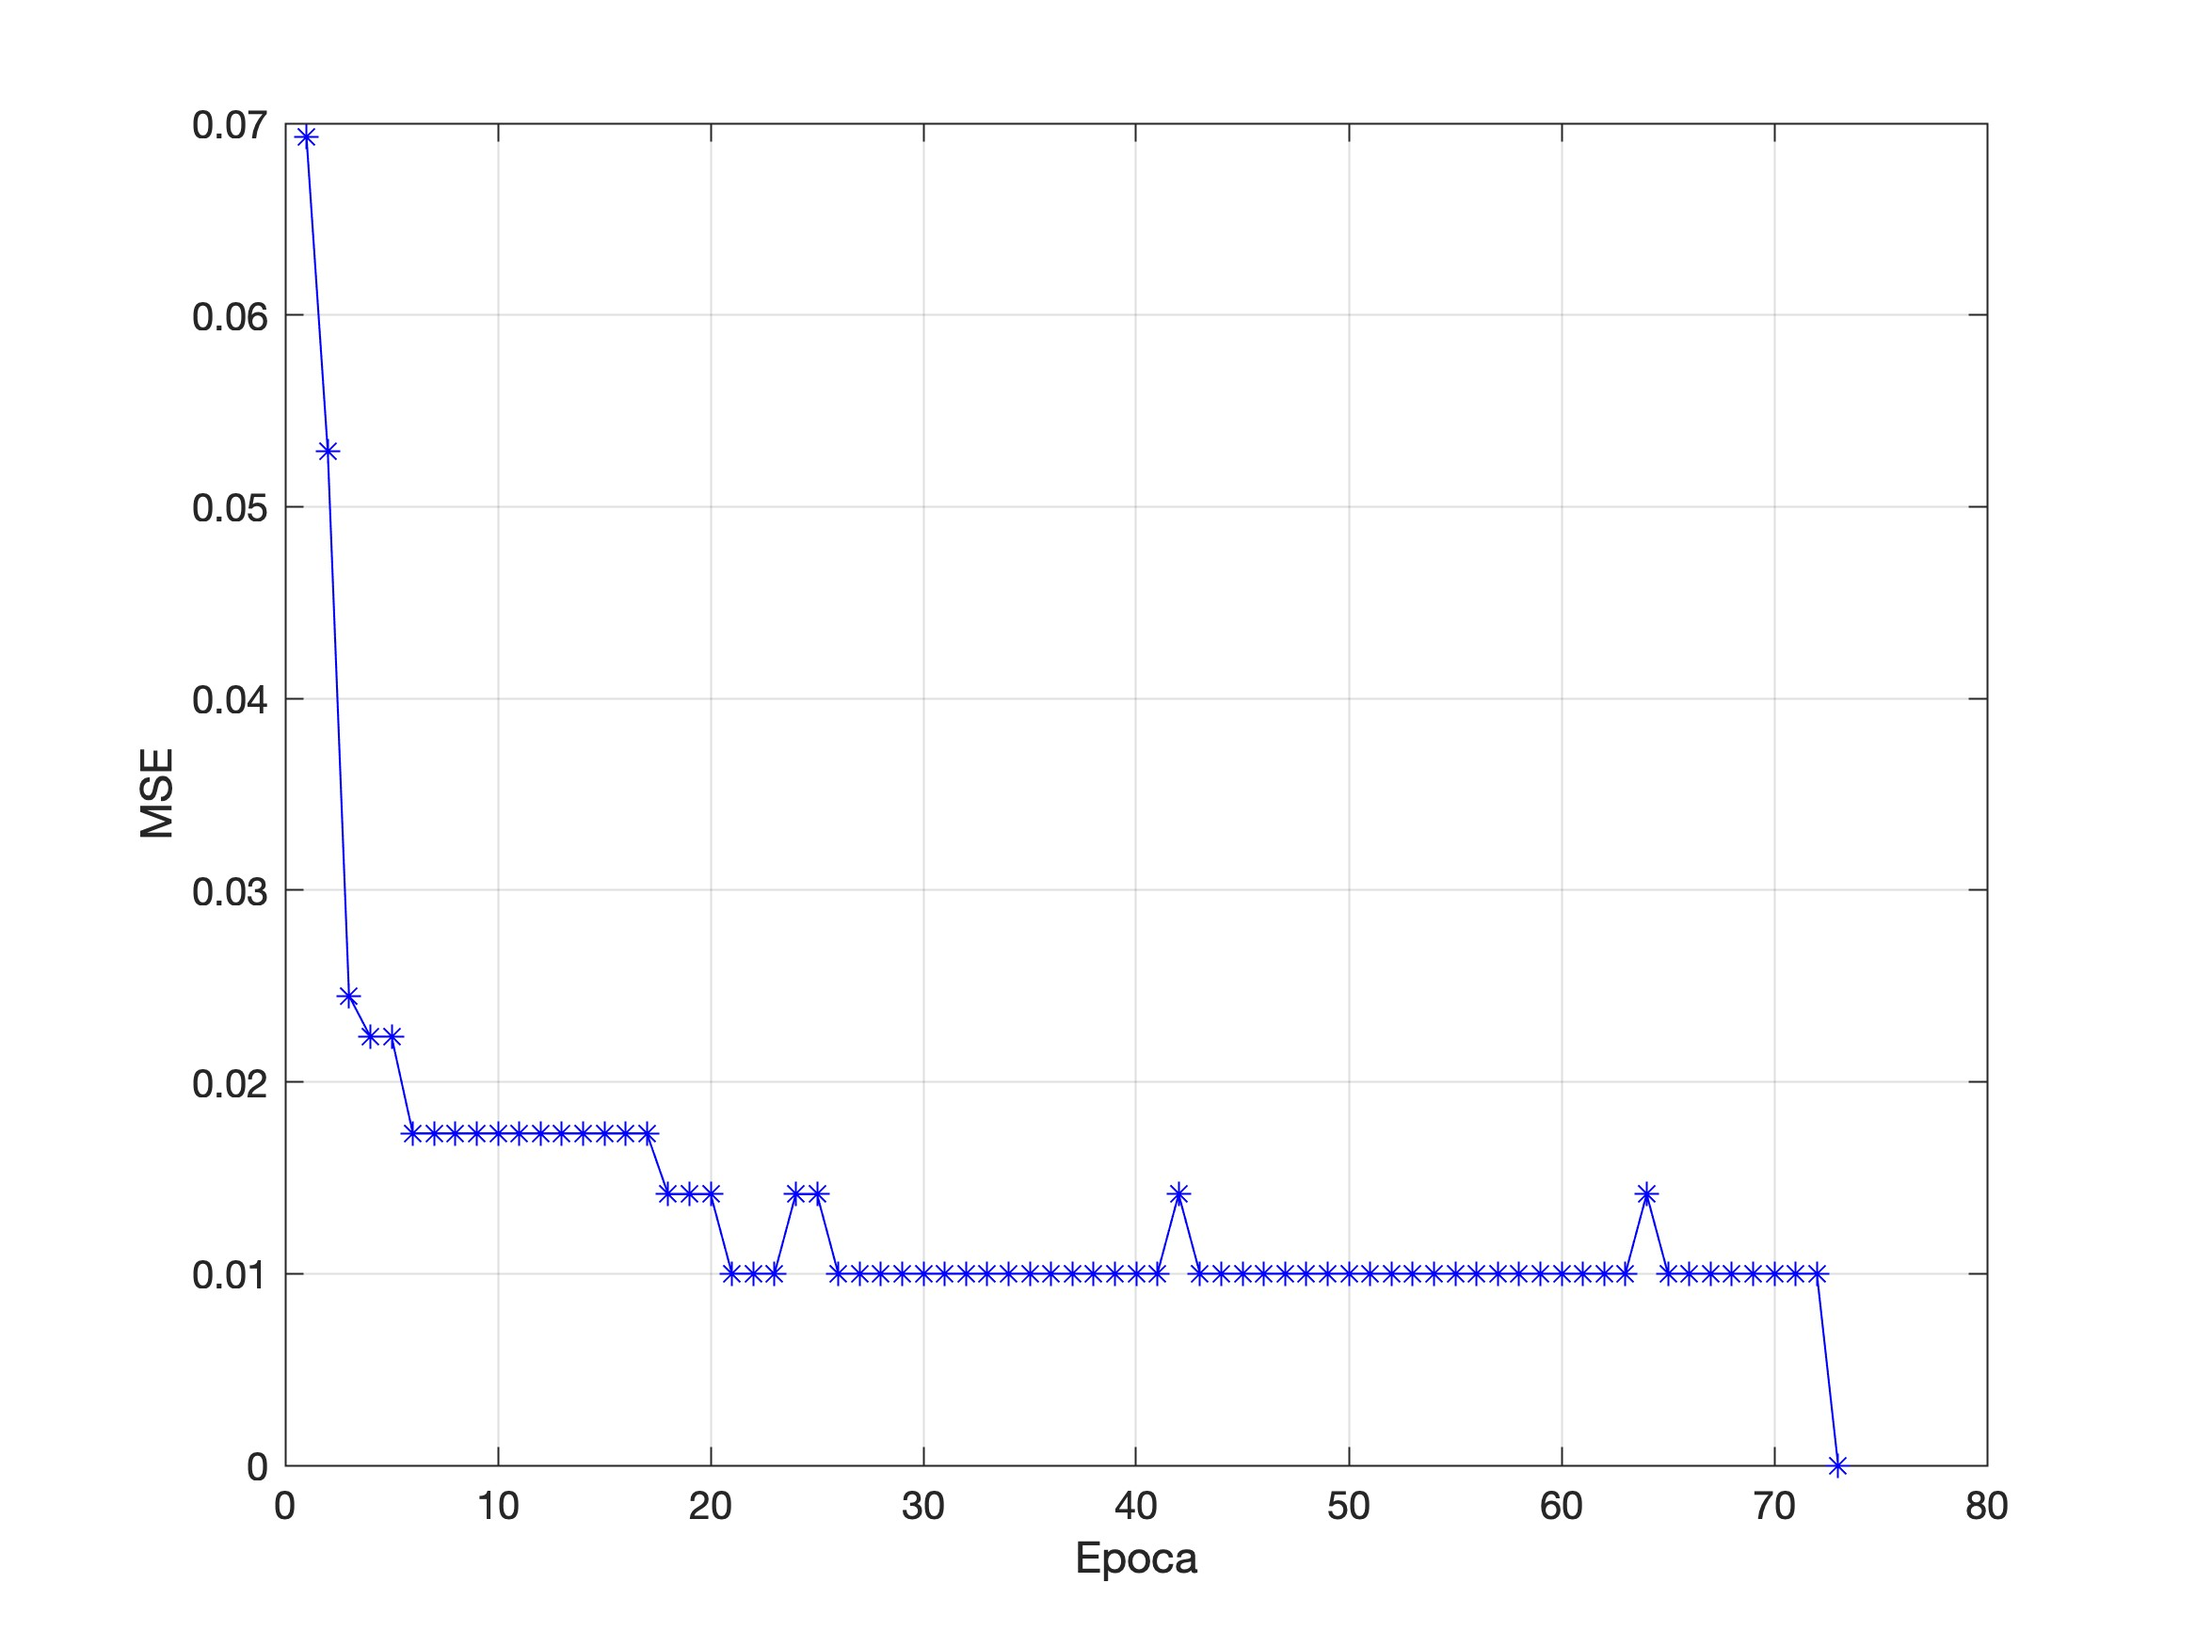
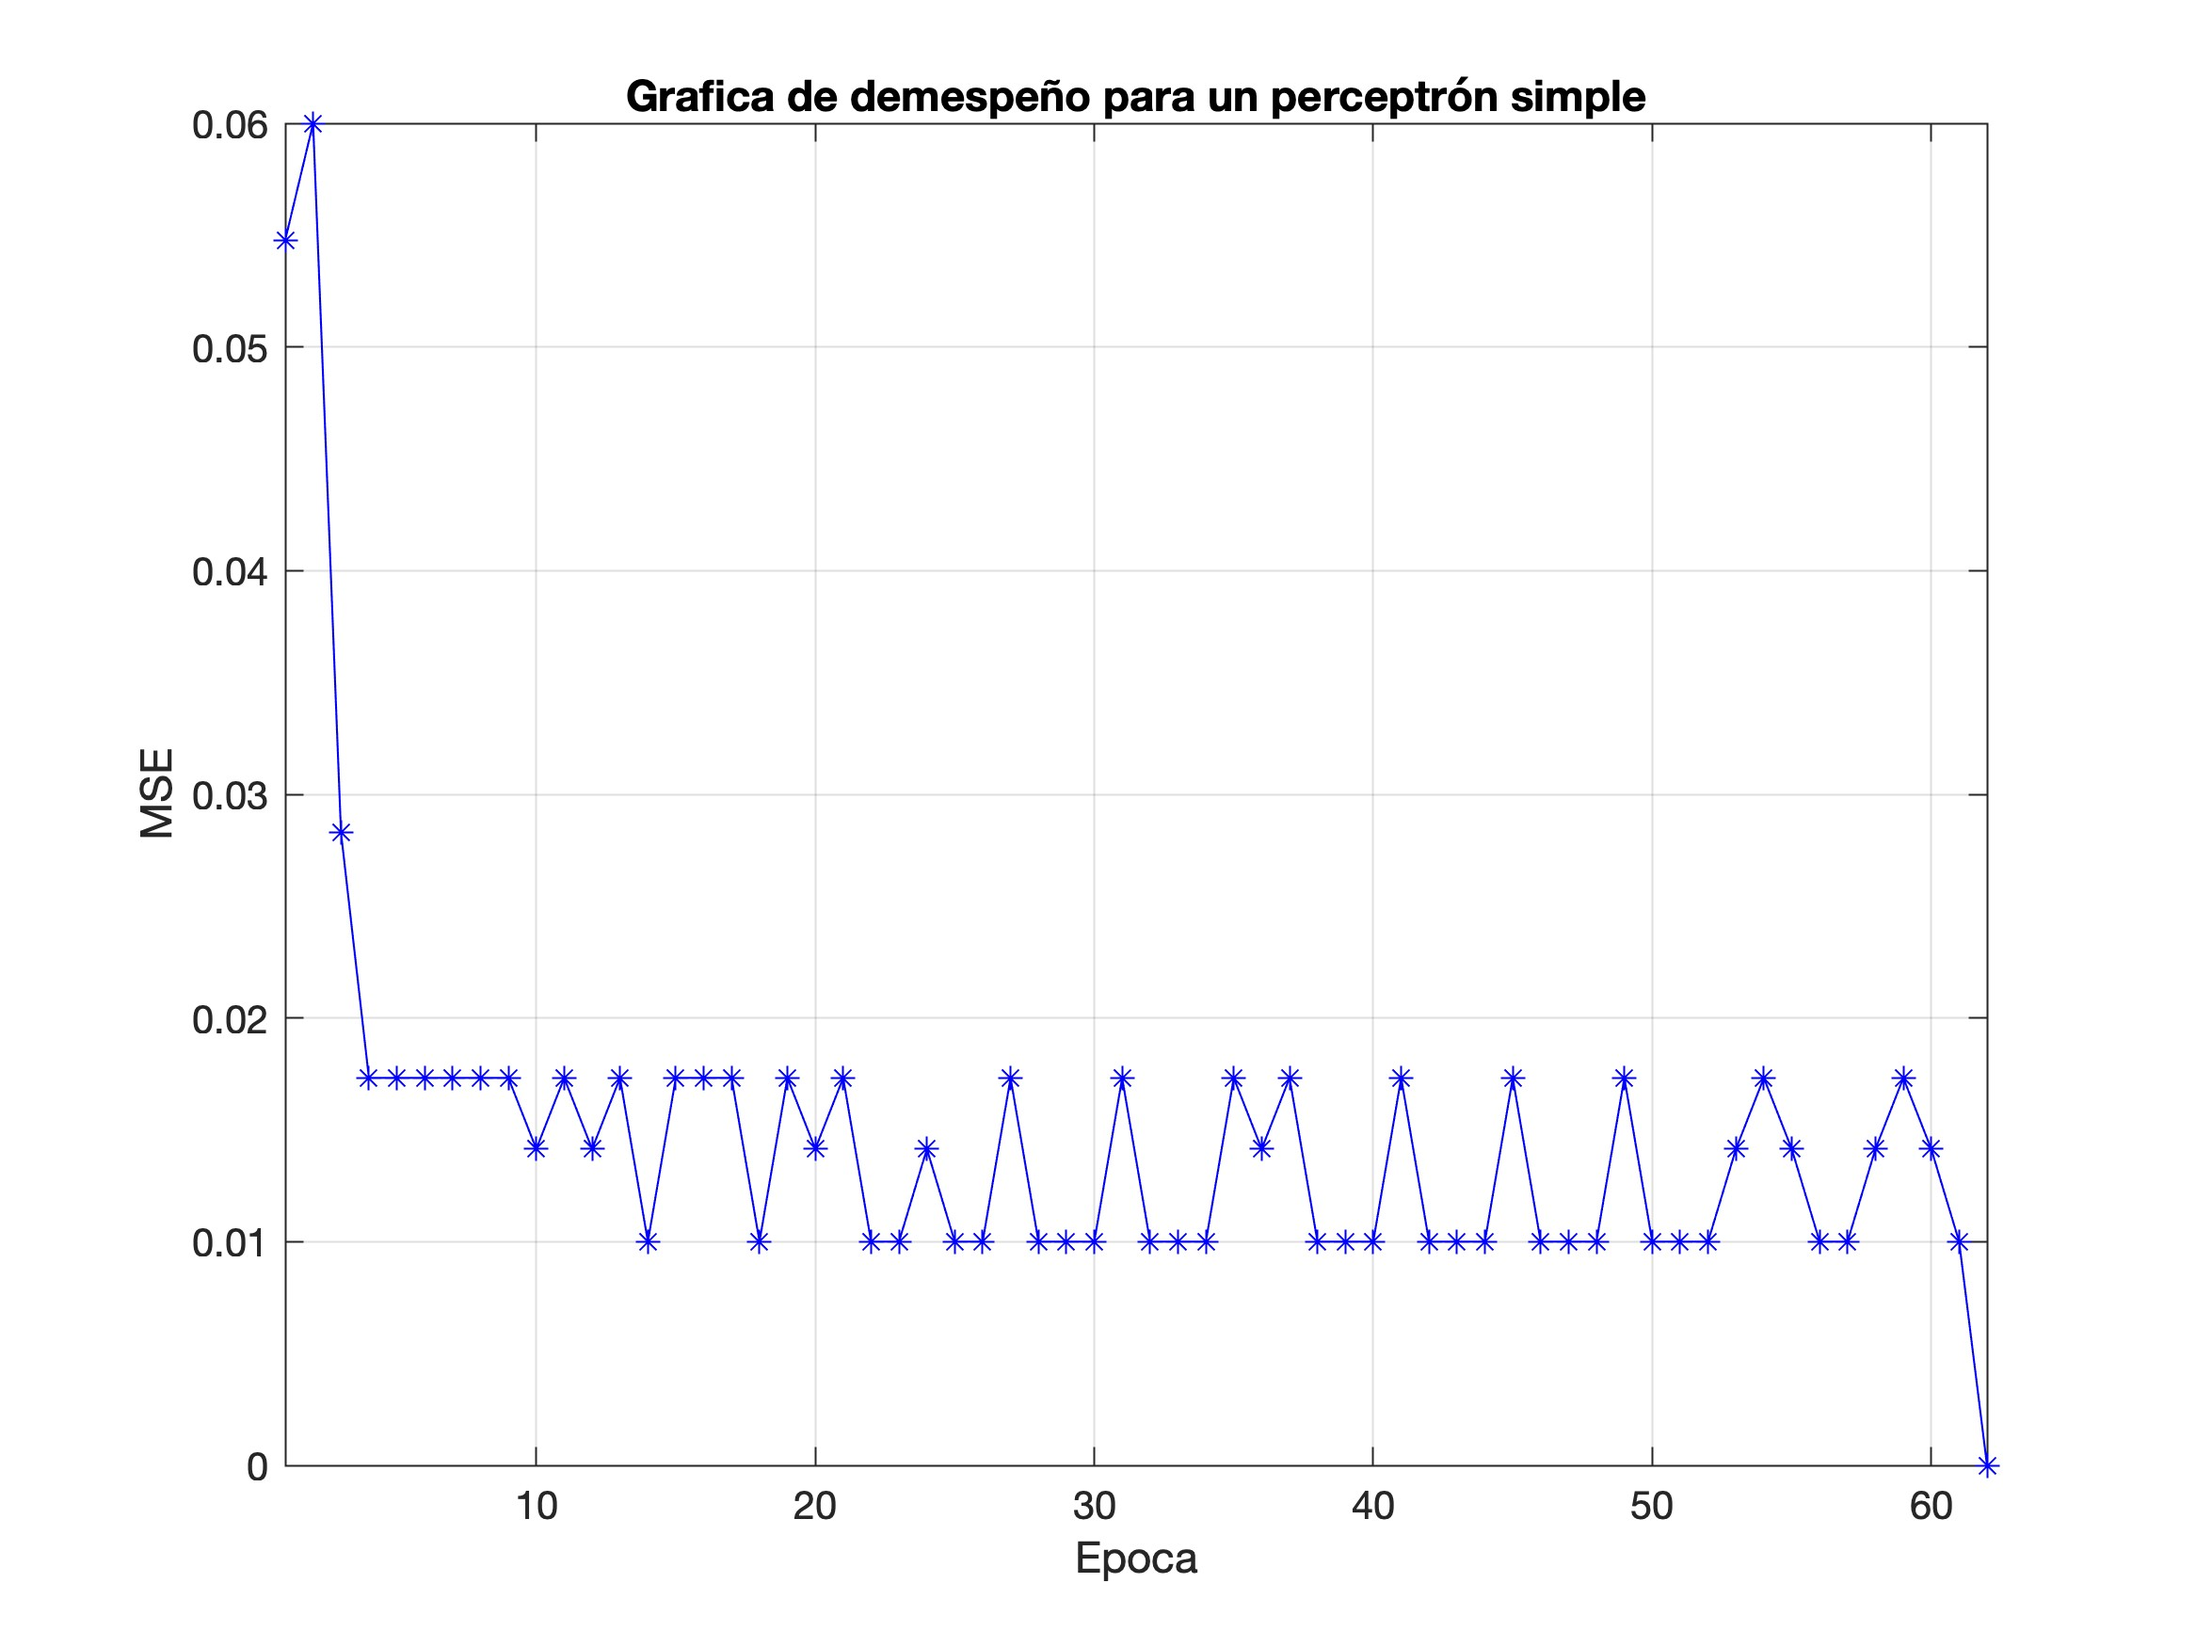
Actulizacion de graficas

diff --git a/src/MatLab/Ejemplo001_2.m b/src/MatLab/Ejemplo001_2.m
@@ -70,8 +70,9 @@ end
 
 figure(2)
 plot(1:nep_mx,vMSE(1:nep_mx),'b*-');
+axis([1, nep_mx, min(vMSE), max(vMSE)])
 grid on;
 ylabel('MSE');
 xlabel('Epoca');
-title('');
+title('Grafica de demespeño para un perceptrón simple');
 print('-f2', '-djpeg90', '-r300', 'Desempeno.jpg')
